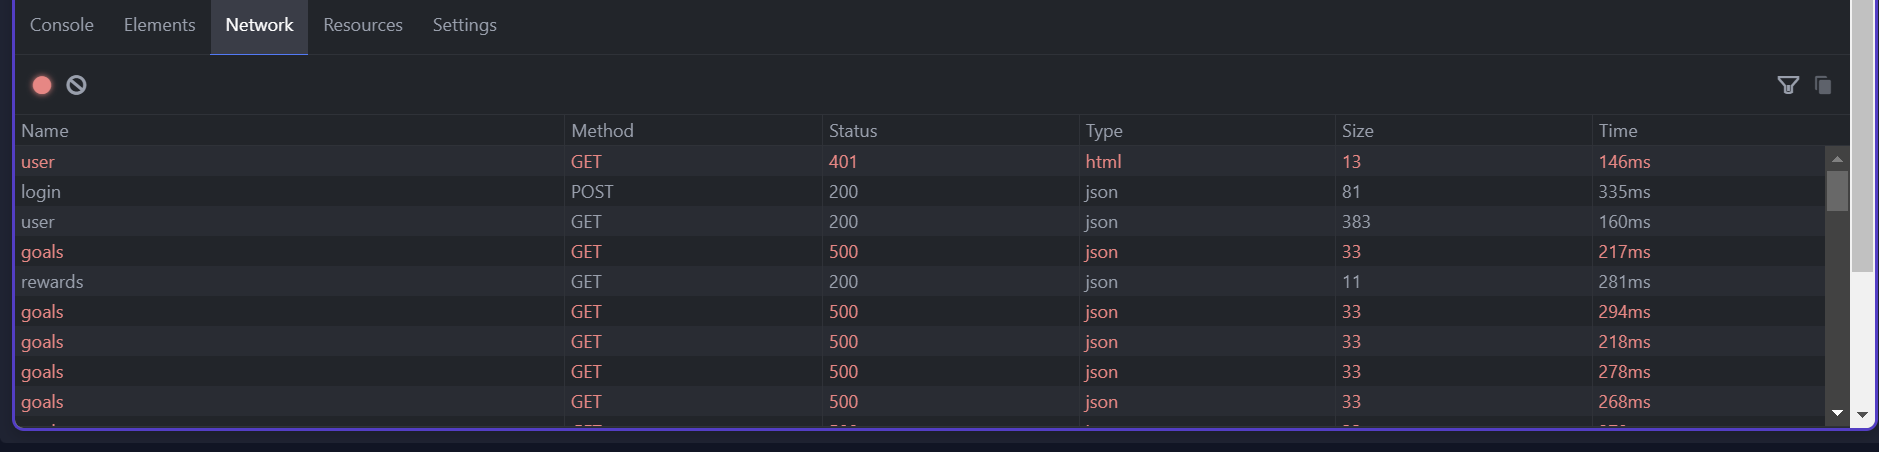
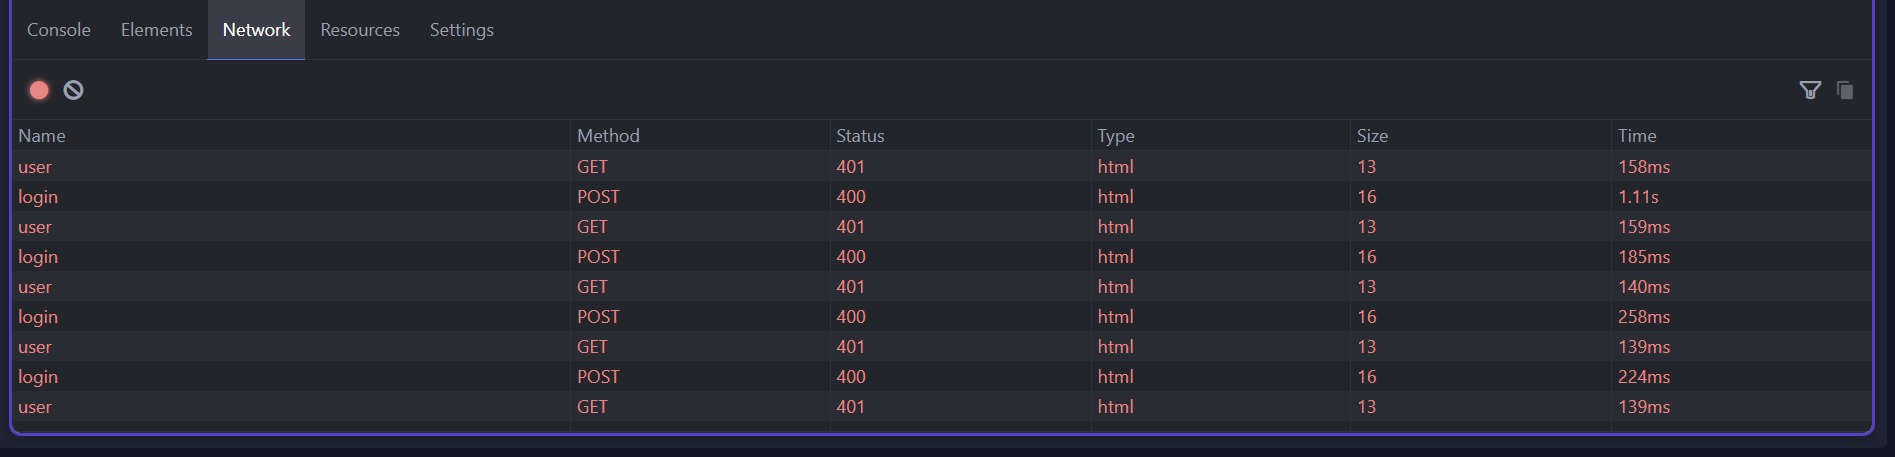
Agent query: Can you now log in with your email without validation errors?
Simplify login schema to only validate email format.

Screenshot: https://storage.googleapis.com/screenshot-production-us-central1/5cbcd047-3b39-438f-8057-f5204b920970/05d4e382-7658-49fd-95f1-2b2785d3d658.jpg

diff --git a/server/auth.ts b/server/auth.ts
@@ -154,7 +154,13 @@ export function setupAuth(app: Express) {
   });
 
   app.post("/api/login", (req, res, next) => {
-    const result = insertUserSchema.safeParse(req.body);
+    // Use a simpler schema for login that only validates email format
+    const loginSchema = z.object({
+      email: z.string().email("Invalid email format"),
+      password: z.string()
+    });
+    
+    const result = loginSchema.safeParse(req.body);
     if (!result.success) {
       return res
         .status(400)
